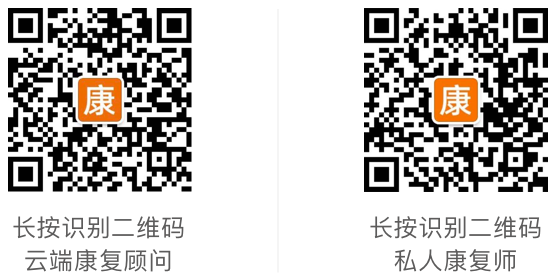
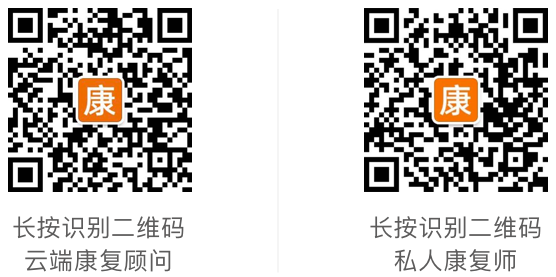
修改二维码

Changed region(s): [[0.0, 0.0289, 0.3669, 0.6931], [0.0306, 0.1733, 0.0612, 0.231], [0.1223, 0.2599, 0.1529, 0.2888]]

diff --git a/src/views/Home.vue b/src/views/Home.vue
@@ -14,6 +14,10 @@
         </div>
       </div>
     </div>
+    <div class="qrcode">
+      <img class="qrcode1" :src="qrcode1" alt="">
+      <img class="qrcode2" :src="qrcode2" alt="">
+    </div>
     <!-- <div class="look_result" @click="handlerLookTest">
       <span>评测结果查询</span>
     </div> -->
@@ -21,6 +25,8 @@
 </template>
 
 <script>
+import qrcode1 from '../assets/qrcode_01.png';
+import qrcode2 from '../assets/qrcode_02.png';
 import {
   showToast,
   showAlertBox
@@ -30,7 +36,9 @@ import axios from 'axios'
 export default {
   data(){
     return {
-      videoList: []
+      videoList: [],
+      qrcode1: qrcode1,
+      qrcode2: qrcode2
     }
   },
   created(){
@@ -132,6 +140,23 @@ export default {
           }
         }
       }
+    }
+  }
+  .qrcode{
+    width: 7.14rem;
+    height: 3.41rem;
+    margin: 0.2rem auto;
+    display: flex;
+    justify-content: center;
+    align-items: center;
+    background: #fff;
+    .qrcode1{
+      width: 2.78rem;
+      height: 2.77rem;
+    }
+    .qrcode2{
+      width: 2.78rem;
+      height: 2.77rem;
     }
   }
   @media only screen and (device-width: 375px) and (device-height: 812px) and (-webkit-device-pixel-ratio: 3) {

diff --git a/src/App.vue b/src/App.vue
@@ -2,9 +2,6 @@
   <div id="app">
     <div class="banner"></div>
     <router-view/>
-    <div class="qrcode">
-      <img :src="qrcode" alt="">
-    </div>
     <div class="copyright">
       <div class="com_name">版权所有：北京慧复科技有限公司</div>
       <div>咨询电话：<a href="tel:400-102-5882">400-102-5882</a></div>
@@ -12,13 +9,10 @@
   </div>
 </template>
 <script>
-import qrcode from './assets/qrcode.png';
 
 export default {
   data(){
-    return {
-      qrcode: qrcode
-    }
+    return {}
   }
 }
 </script>
@@ -43,19 +37,6 @@ html, body{
     height: 3rem;
     background: url('assets/banner.png') no-repeat;
     background-size: 100% 100%;
-  }
-  .qrcode{
-    width: 7.14rem;
-    height: 3.41rem;
-    margin: 0.2rem auto;
-    display: flex;
-    justify-content: center;
-    align-items: center;
-    background: #fff;
-    img{
-      width: 5.56rem;
-      height: 2.27rem;
-    }
   }
   .copyright{
     color: #fff;
